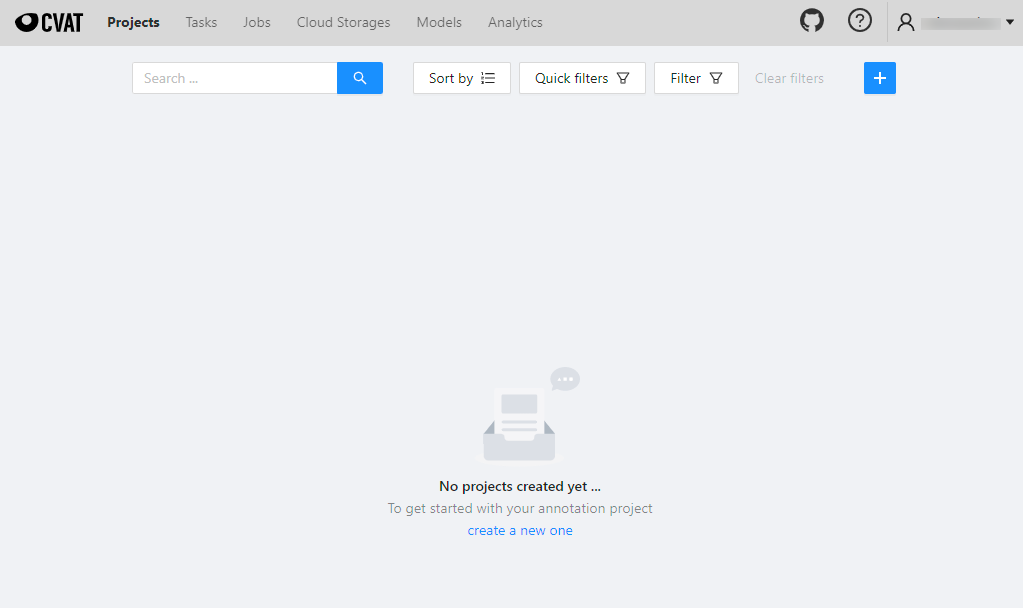
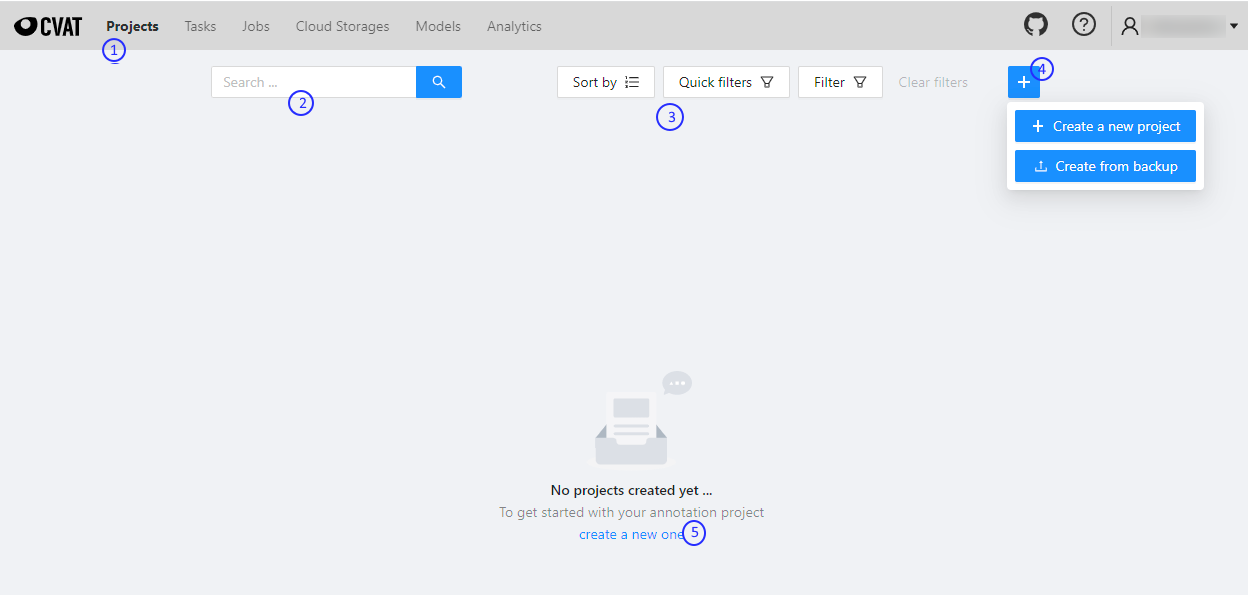
fixes

Changed region(s): [[0.0, 0.0, 1.0, 0.3328], [0.3636, 0.7866, 0.6364, 0.9076], [0.4545, 0.6353, 0.5455, 0.7563]]

diff --git a/site/content/en/docs/manual/advanced/projects.md b/site/content/en/docs/manual/advanced/projects.md
@@ -21,11 +21,12 @@ To open the Project page:
 You will see the the following page:
 
 
-![CVAT Project main page](site/content/en/images/vat-project-main-page.png)
+![CVAT Project main page](/images/сvat-project-main-page.png)
 
-## Elements of the Projects page
 
-**Search bar**
+1. **Projects**. Navigation bar option to get to the Projects page.
+2. **Search box**. Use it to find project by name or assignee.
+3.
 
 On this page you can create a new project, create a project from a backup, and also see the created projects.
 
